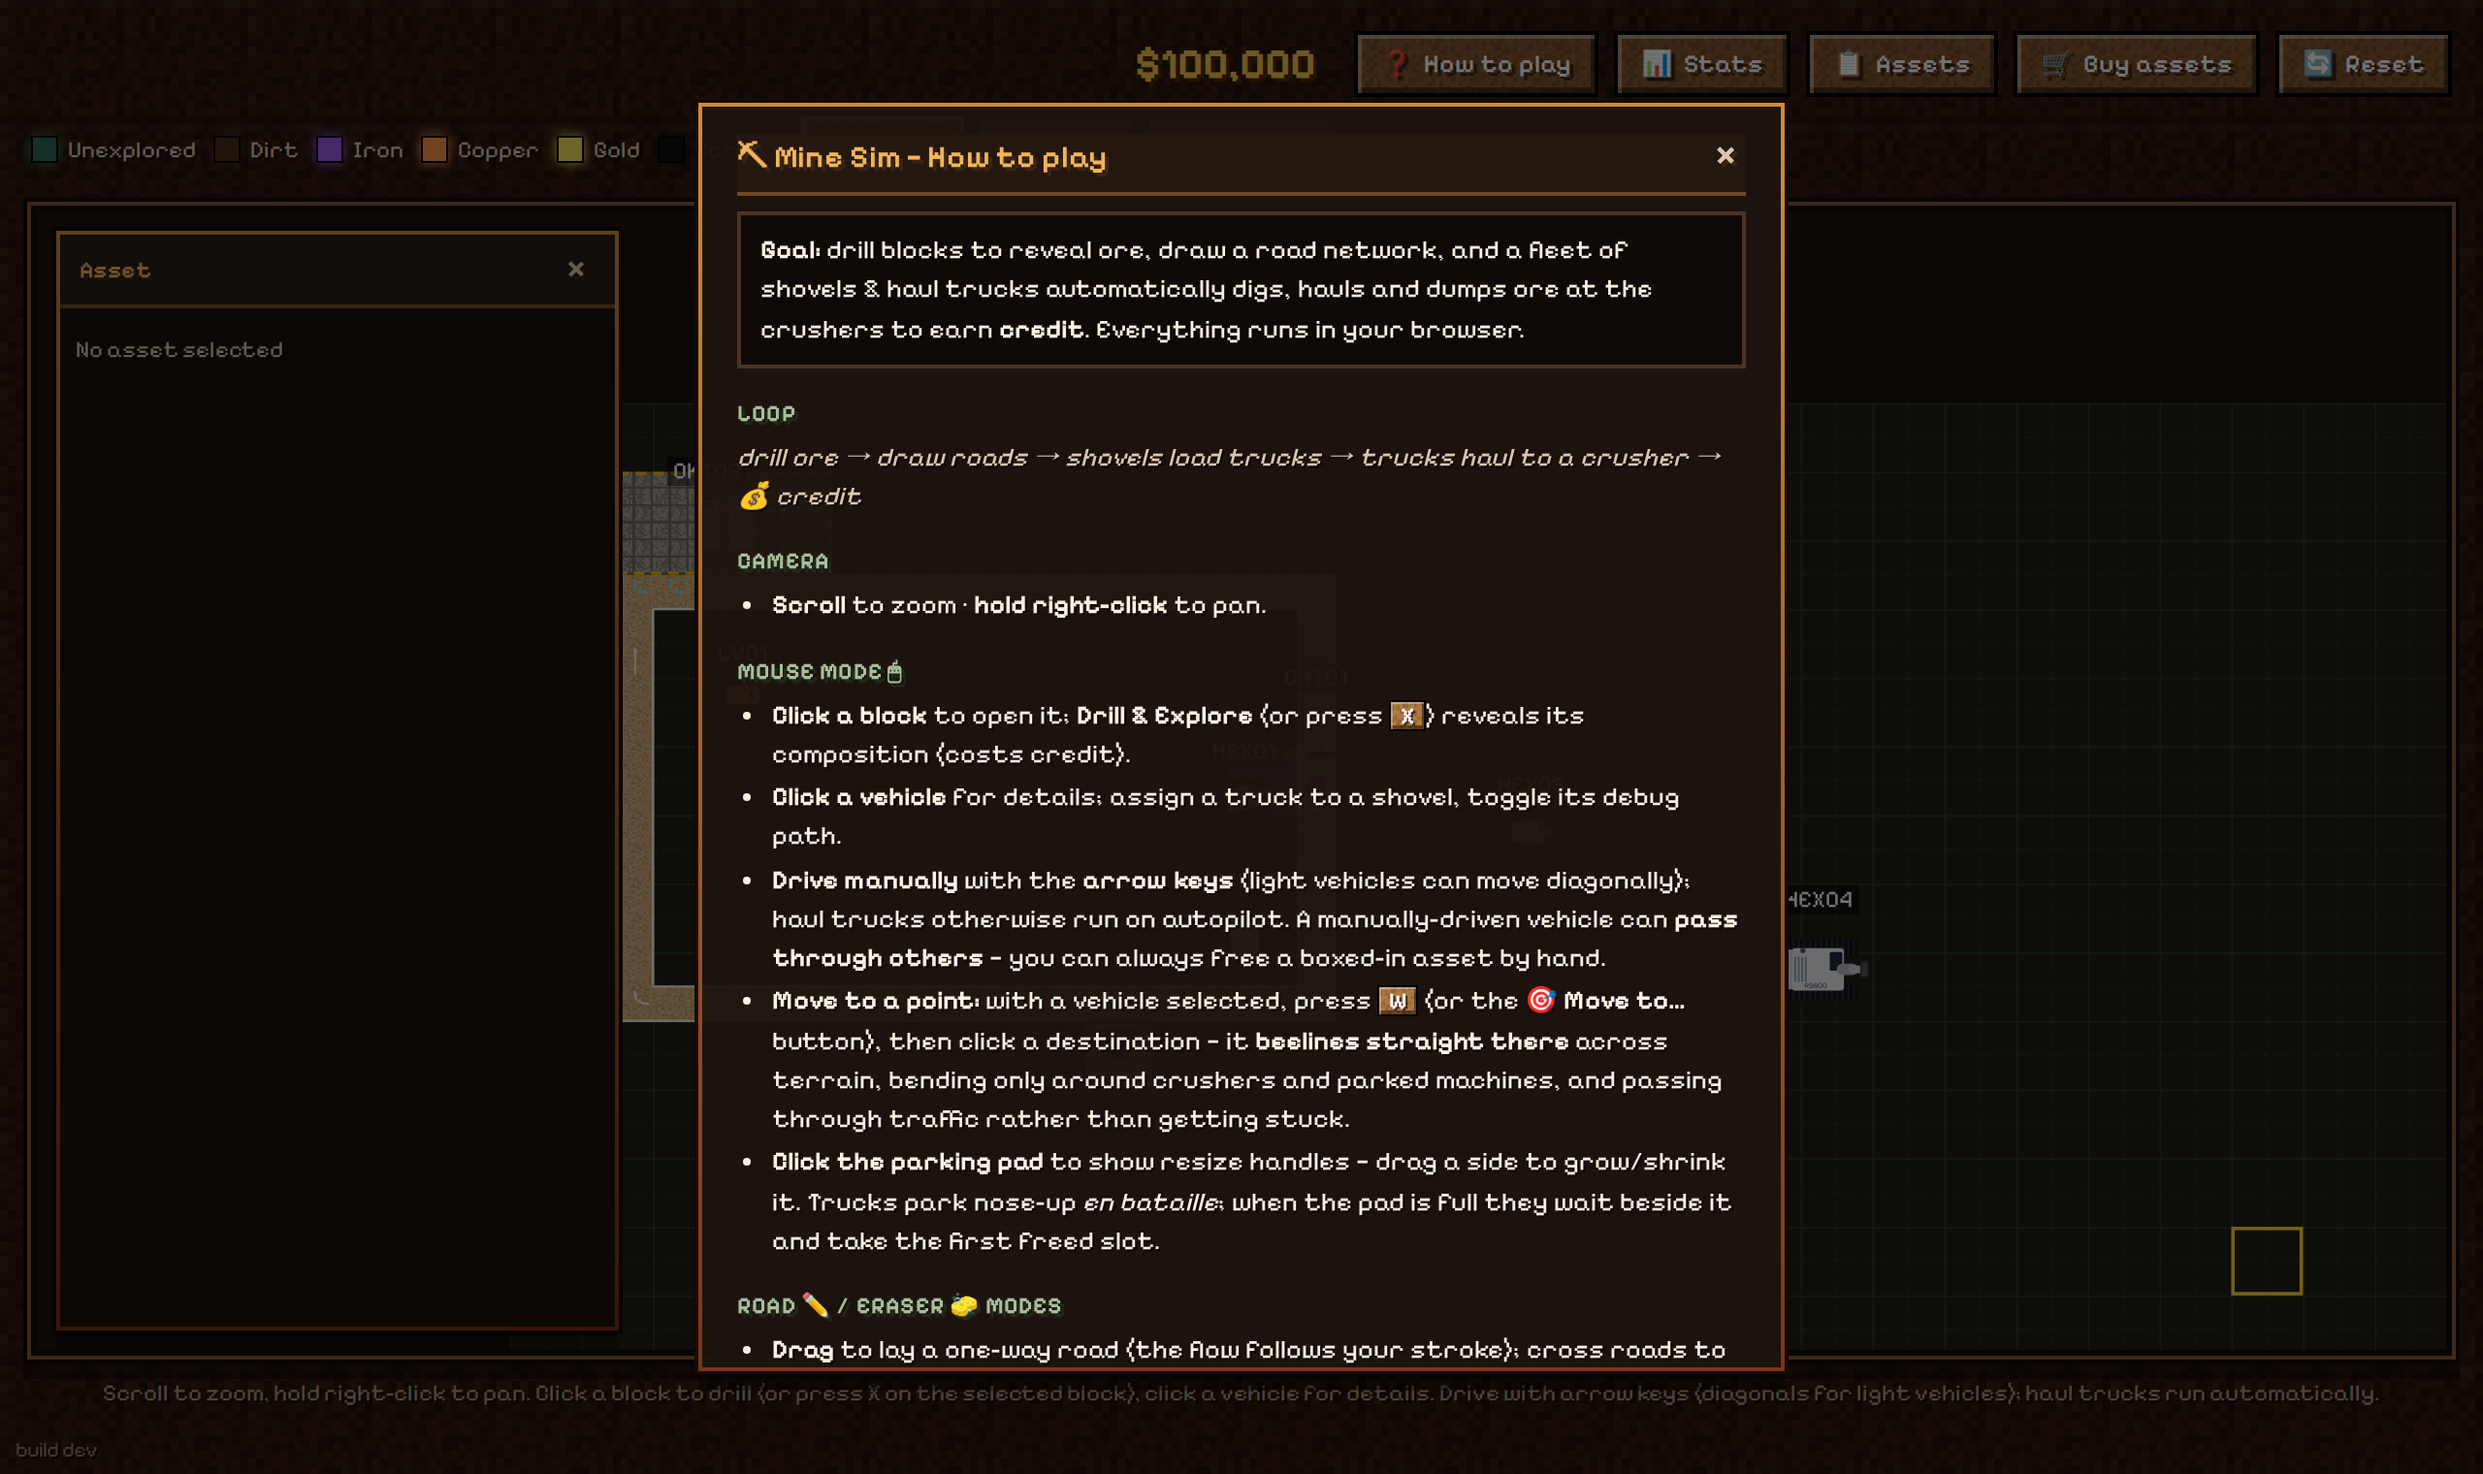
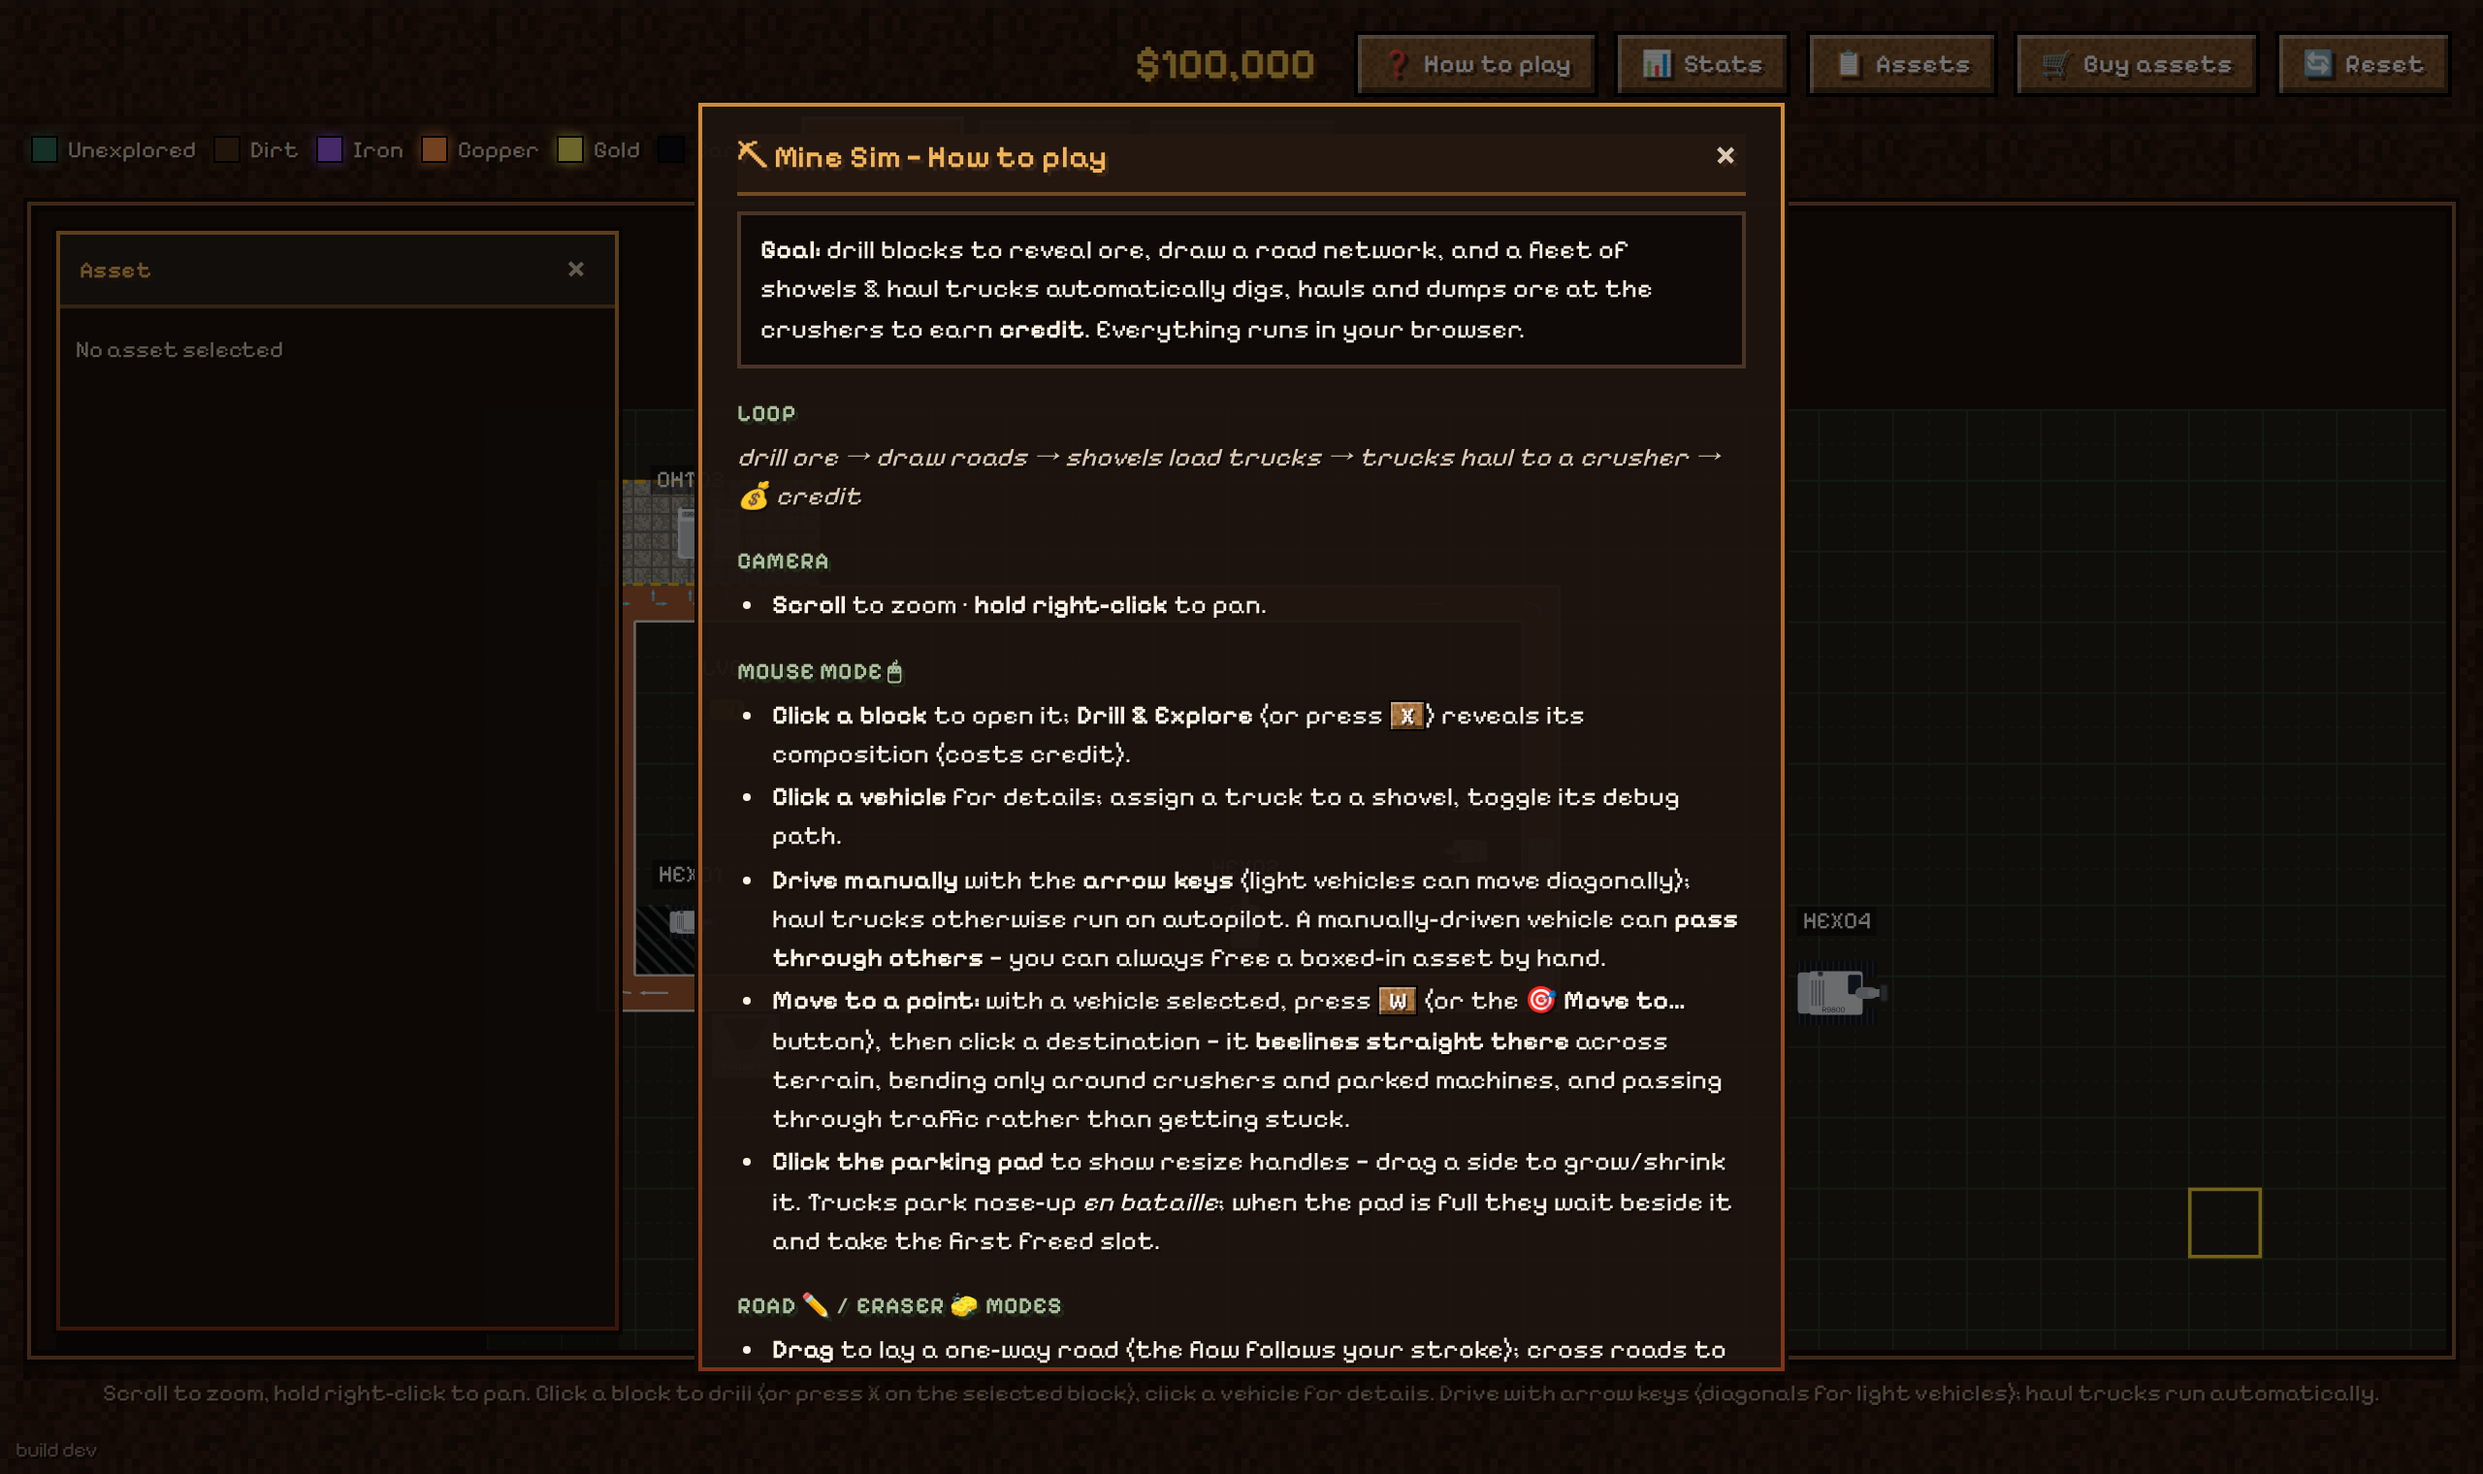
style: roads back to the original orange clay
Restore the "terre battue" fill (#a85d34, darker #5e3520 when worn, with the
existing rut hatch) instead of the pale haul-road texture; drop the now
unused road textures. Visual baselines and README screenshots regenerated.

Changed region(s): [[0.25, 0.3092, 0.2812, 0.7112], [0.7188, 0.5875, 0.75, 0.7112], [0.875, 0.8039, 0.9375, 0.8658]]

diff --git a/public/components/textures.js b/public/components/textures.js
@@ -1,9 +1,8 @@
 // Blocky 16×16 pixel textures, generated procedurally (no image assets) and
-// cached, in the palette of an Australian open-pit mine: pale compacted-dust
-// haul roads (rutted when worn), concrete pads and plant, and the pit-floor /
-// sandstone / hi-vis / gold-flecked surfaces the UI theme uses. (The mine grid
-// itself keeps its flat ore colours — see game-canvas.js.) Every texture is
-// deterministic.
+// cached, in the palette of an Australian open-pit mine: concrete pads and
+// plant, and the pit-floor / sandstone / hi-vis / gold-flecked surfaces the UI
+// theme uses. (The mine grid and the roads keep their flat colours — see
+// game-canvas.js and roads.js.) Every texture is deterministic.
 
 export const TEX = 16;   // texels per side
 
@@ -24,8 +23,6 @@ function prng(seed) {
 const BASES = {
   pit:       { seed: 23, pal: ['#7a3f24', '#6e3820', '#85482a', '#5f2f1b', '#8c4e2f'] },   // pit floor
   rock:      { seed: 37, pal: ['#8a6a5a', '#7d5f50', '#96766a', '#6f5446', '#a08070'] },   // host rock
-  haulroad:  { seed: 53, pal: ['#d1ad7a', '#c9a36f', '#dab887', '#bf9864', '#d6b27f'] },   // compacted dust
-  rutted:    { seed: 59, pal: ['#9a7650', '#8c6a46', '#a6825a', '#7f5f3e', '#93704b'] },   // worn road
   concrete:  { seed: 61, pal: ['#9a948a', '#8f897f', '#a59f95', '#857f76', '#aaa49a'] },
   sandstone: { seed: 67, pal: ['#a8743f', '#9c6a38', '#b27c45', '#916234', '#ad7842'] },   // UI buttons
   hivis:     { seed: 71, pal: ['#e8651c', '#f06f22', '#dc5d18', '#f47a2c', '#e36a1f'] },   // UI active
@@ -94,7 +91,7 @@ function draw(kind, ctx) {
   bevel(ctx, 0.1);
 }
 
-// The 16×16 canvas for `kind` (pit, rock, haulroad, rutted, concrete, pad,
+// The 16×16 canvas for `kind` (pit, rock, concrete, pad,
 // sandstone, hivis, or gold — rock flecked with gold).
 export function texture(kind) {
   let c = cache.get(kind);

diff --git a/public/components/roads.js b/public/components/roads.js
@@ -399,14 +399,12 @@ export class Roads {
     ctx.clearRect(0, 0, this.canvas.width, this.canvas.height);
     applyCamera(ctx, this.dpr);
 
-    // pale compacted-dust haul road, one 16×16 texture per cell (slight overlap
-    // hides sub-pixel seams between cells). Degraded cells turn rutted and dark.
-    ctx.imageSmoothingEnabled = false;
-    const pathFill = cellPattern(ctx, 'haulroad', zoneW, zoneH);
-    const wornFill = cellPattern(ctx, 'rutted', zoneW, zoneH);
+    // packed-earth "terre battue" clay surface (slight overlap hides sub-pixel
+    // seams between cells). Degraded cells are rendered darker.
+    ctx.imageSmoothingEnabled = false;   // crisp texels on the pad / plant below
     for (const c of this.cells.values()) {
       if (c.parking) continue;
-      ctx.fillStyle = c.worn ? wornFill : pathFill;
+      ctx.fillStyle = c.worn ? '#5e3520' : '#a85d34';
       ctx.fillRect(c.gx * zoneW, c.gy * zoneH, zoneW + 0.6, zoneH + 0.6);
     }
     // worn cells get a light diagonal hatch (rutted / broken-up surface)

diff --git a/test/unit/client/textures.test.js b/test/unit/client/textures.test.js
@@ -4,7 +4,7 @@ import { texture, textureURL } from '../../../public/components/textures.js';
 
 describe('textures (client)', () => {
   it('builds every texture the roads and the UI theme use', () => {
-    for (const kind of ['pit', 'rock', 'haulroad', 'rutted', 'concrete', 'pad', 'sandstone', 'hivis', 'gold']) {
+    for (const kind of ['pit', 'rock', 'concrete', 'pad', 'sandstone', 'hivis', 'gold']) {
       expect(() => texture(kind)).not.toThrow();
       expect(texture(kind)).toBe(texture(kind));            // cached
     }
